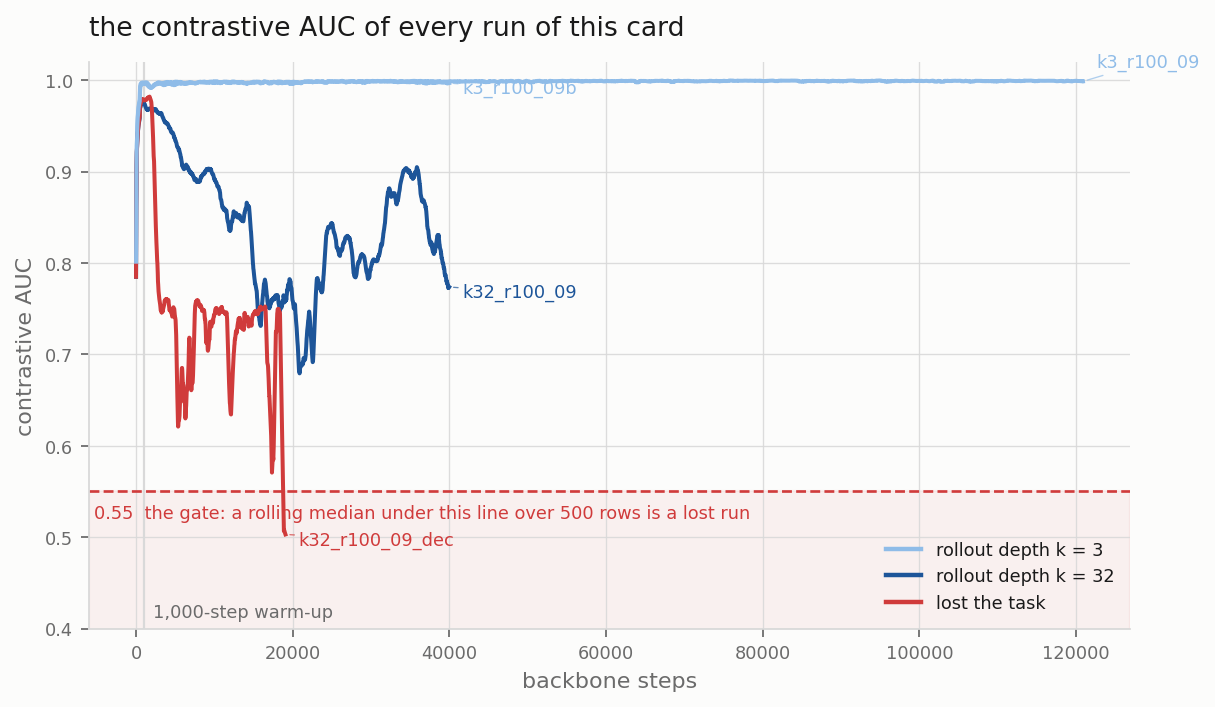
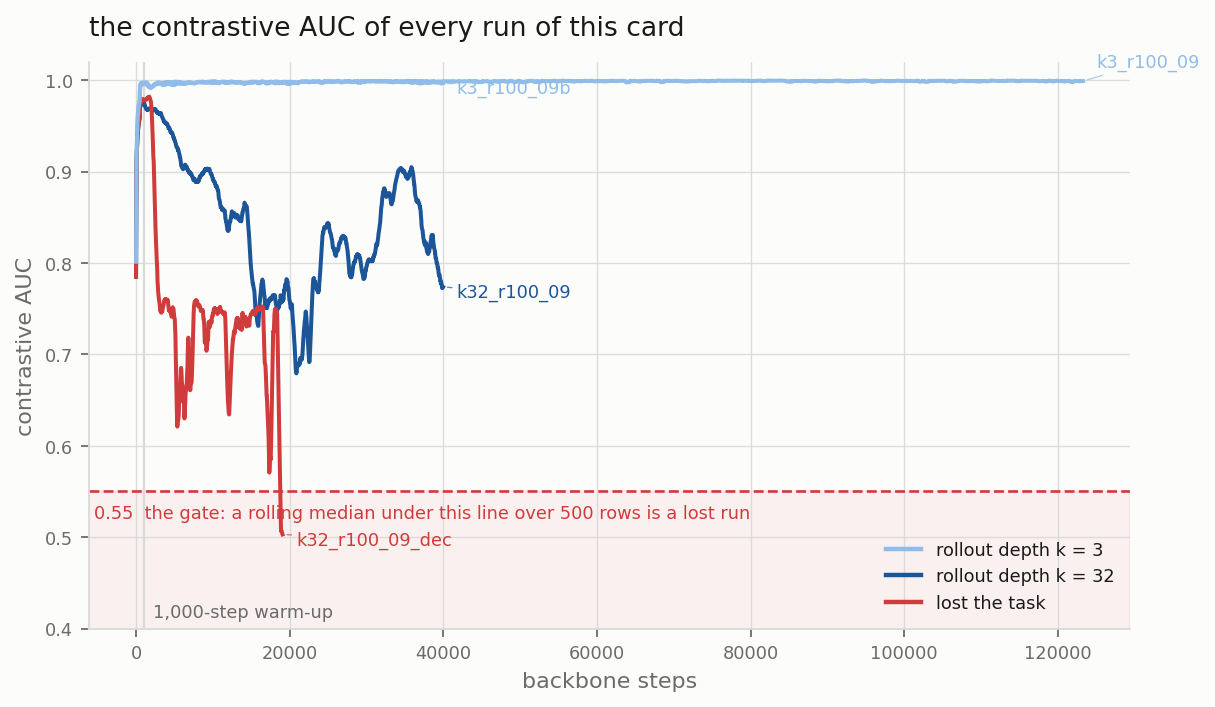
exp(#412): the rate sweep runs three points, and the report records the loss
Configuration 5 lost the contrastive task at 11.4M parameters. The AUC median
reached chance at step 18,634 and stayed there. #409 ran the same decay on the
same cell at 1.1M over 22 runs, and only its momentum-0.500 run lost the task.
The report's AUC section now says so.

The learning-rate sweep carries three points, not two: 5.6e-4, 3.3e-4 and
1.67e-4 on configuration 1. lr33 and lr56 train on gpu 1 since 01:51.

`results/lane_d.log` leaves the repository. Two sessions opened it at once,
one with `>`, so its text interleaves at two offsets. `arms.log` and
`phase1.log` append and hold every line of it.

diff --git a/reports/2026-09-06_moirai_small_size/moirai_small_size.md b/reports/2026-09-06_moirai_small_size/moirai_small_size.md
@@ -19,9 +19,18 @@ _(filled when the head-matched stops land)_
 
 ![the climb](plots/climb.png)
 
-## Every run held the contrastive task
+## One arm lost the contrastive task
 
 ![the contrastive AUC](plots/auc.png)
+
+`k32_r100_09_dec` is configuration 2 with the `L_rep` decay. Its rolling AUC
+median reached chance at step 18,634 and stayed there, so the guard stopped
+the leg. That arm has no head and no score.
+
+#409 ran the same decay on the same cell at 1.1M parameters over 22 runs. One
+run lost the task there, and it is the run at the fixed EMA momentum 0.500.
+This arm carries the ramping momentum, which held at 1.1M. The width is the
+one column that changed.
 
 ## The loss by term
 
@@ -53,14 +62,14 @@ under-trains a 384-wide encoder biases every 11.4M score in this report the
 same way. Comparisons inside one size survive that bias. The size headline
 does not, and it carries this caveat.
 
-**The learning rate is not proven at this width.** Every arm trains at 1e-3,
-which is the Moirai recipe. This project does not use muP, and the trainer
-builds one AdamW group over all parameters. So a rate that fits `d_model` 64
-need not fit 384. Two arms bracket the rate on configuration 1, at 3.3e-4 and
-1.67e-4. D is 1.3495 minus the better of the two. A D above the 0.0471 band
-voids every 1e-3 number of this card, and phase 1 repeats at the winning rate.
-Both arms inside the band, or worse, ends the learning-rate explanation at
-width 384.
+**The learning rate is not proven at this width.** Every arm above trains at
+1e-3, which is the Moirai recipe. This project does not use muP, and the
+trainer builds one AdamW group over all parameters. So a rate that fits
+`d_model` 64 need not fit 384. Three arms sweep the rate on configuration 1,
+at 5.6e-4, 3.3e-4 and 1.67e-4. Each one moves the rate column alone. D is
+1.3495 minus the best of the three. A D above the 0.0471 band voids every
+1e-3 number of this card, and phase 1 repeats at the winning rate. Every arm
+inside the band, or worse, ends the learning-rate explanation at width 384.
 
 **The band is 0.0471.** #409 measured that spread over two backbone seeds of
 one configuration at the 40,000-step stop. Two numbers closer than that are
@@ -88,6 +97,7 @@ BB_GPU=0 bash run.sh size smoke trial       # the shape, the cost, one arm end t
 BB_GPU=0 STOPS=40000 ARMS="k32_r100_09 k32_r100_09_dec" bash run.sh phase1
 BB_GPU=1 STOPS=40000 ARMS="k3_r100_09 k3_r100_09b k3_r100_09_dec" bash run.sh phase1
 BB_GPU=0 STOPS="100000 200000" ARMS="k3_r100_09" bash run.sh phase1
-BB_GPU=1 STOPS=40000 ARMS="k3_r100_09_lr33 k3_r100_09_lr17" bash run.sh phase1
+BB_GPU=1 STOPS=40000 ARMS="k3_r100_09_lr33 k3_r100_09_lr56" bash run.sh phase1
+BB_GPU=1 STOPS=40000 ARMS="k3_r100_09_lr17" bash run.sh phase1
 bash run.sh collect && bash scripts/make_plots.sh
 ```
